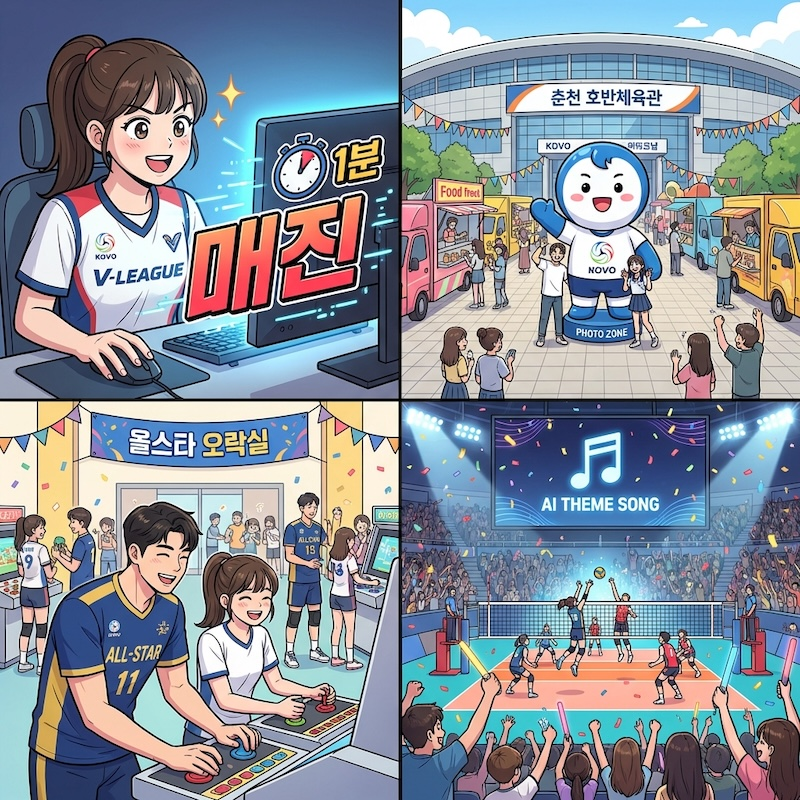
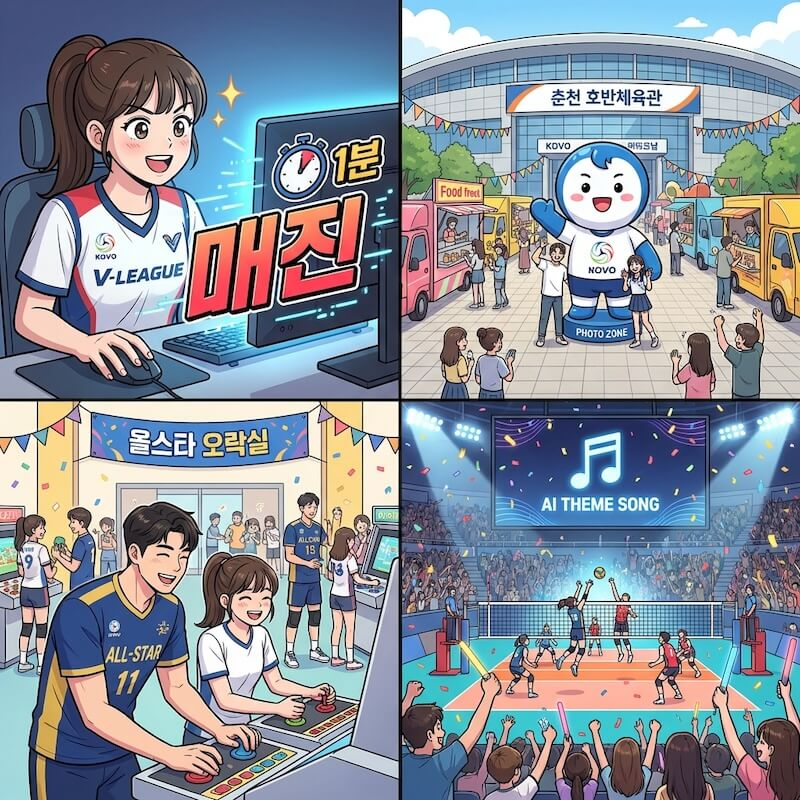
update

diff --git a/_posts/project/newsnack/2026-02-23-newsnack-airflow-pipeline.md b/_posts/project/newsnack/2026-02-23-newsnack-airflow-pipeline.md
@@ -8,18 +8,18 @@ mermaid: true
 
 ## 들어가며
 
-뉴스낵은 매시간 언론사 RSS를 수집하고, 매일 2회 기사들을 바탕으로 상위 이슈를 선별하고, 각 이슈들에 대한 AI 기사(뉴스툰)를 만든 후, 최종적으로 오늘의 뉴스낵까지 만드는 **긴 호흡의 데이터 생성 프로세스**를 거친다.
+뉴스낵은 매시간 언론사 RSS를 수집하고, 매일 2회 기사들을 바탕으로 상위 이슈를 선별하고, 각 이슈들에 대한 뉴스툰을 만든 후, 최종적으로 오늘의 뉴스낵까지 만드는 **긴 호흡의 데이터 생성 프로세스**를 거친다.
 
 ```mermaid
 flowchart LR
     A([기사 수집]) --> B([이슈 클러스터링])
     B --> C([상위 이슈 선별])
-    C --> D([AI 기사 생성 요청])
+    C --> D([뉴스툰 생성 요청])
     D --> E([오늘의 뉴스낵 생성 요청])
 ```
 
 초기에는 단순 Linux `Cron` 스크립트나 FastAPI의 백그라운드 태스크로 구동하려 했으나 여러 한계에 직면했다.
-수많은 배치 작업 중 **어떤 단계에서 에러가 터졌는지 추적**하기 어려웠고, 선행 작업(AI 기사 생성)이 완료되지도 않았는데 후행 작업(오늘의 뉴스낵 생성)이 실행되는 등 **태스크 간의 선후행 조건 제어**가 불가능했다. 또한 간헐적인 네트워크 오류에 대비한 **재시도 로직**을 일일이 하드코딩해야 하는 운영 리소스의 낭비가 심각했다.
+수많은 배치 작업 중 **어떤 단계에서 에러가 터졌는지 추적**하기 어려웠고, 선행 작업(뉴스툰 생성)이 완료되지도 않았는데 후행 작업(오늘의 뉴스낵 생성)이 실행되는 등 **태스크 간의 선후행 조건 제어**가 불가능했다. 또한 간헐적인 네트워크 오류에 대비한 **재시도 로직**을 일일이 하드코딩해야 하는 운영 리소스의 낭비가 심각했다.
 
 ![airflow_logo](/assets/img/project/newsnack/introduction/airflow_logo.png)
 
@@ -36,7 +36,7 @@ flowchart LR
 ![newsnack_system_architecture_airflow_fastapi](/assets/img/project/newsnack/airflow-pipeline/newsnack_system_architecture_airflow_fastapi.jpg)
 _시스템 아키텍처 중 일부 (Airflow와 FastAPI의 관계)_
 
-전체 로직을 FastAPI로 통합하는 방식도 고려했지만, 콘텐츠 조립 전 AI 기사가 모두 생성될 때까지 긴 시간을 안정적으로 대기하는 로직을 웹 서버에서 스레드를 점유하며 직접 구현하는 것은 비효율적이라고 판단했다. 따라서 실행의 흐름 관리는 Airflow가 담당하고, 세부적인 기사 선정과 데이터 조립은 AI 서버가 책임지는 분리된 구조를 선택했다.
+전체 로직을 FastAPI로 통합하는 방식도 고려했지만, 콘텐츠 조립 전 뉴스툰이 모두 생성될 때까지 긴 시간을 안정적으로 대기하는 로직을 웹 서버에서 스레드를 점유하며 직접 구현하는 것은 비효율적이라고 판단했다. 따라서 실행의 흐름 관리는 Airflow가 담당하고, 세부적인 기사 선정과 데이터 조립은 AI 서버가 책임지는 분리된 구조를 선택했다.
 
 ### 서비스 간 통신: gRPC vs REST
 
@@ -251,6 +251,13 @@ dag_id              | run_id                                   | state
 ====================+==========================================+=========
 news_collection_dag | manual__2026-02-08T09:53:39...           | success  ← 오직 1개만!
 ```
+
+## 전체 시퀀스 요약
+
+Airflow를 중앙 오케스트레이터로 활용하여, 데이터 수집(ETL)부터 AI 콘텐츠 생성까지 전체 시스템이 상호작용하는 흐름을 요약하면 다음과 같다.
+
+![orchestration_sequence_diagram](/assets/img/project/newsnack/airflow-pipeline/orchestration_sequence_diagram.webp)
+_Airflow 파이프라인 오케스트레이션 시퀀스_
 
 ## 마치며
 

diff --git a/_posts/project/newsnack/2026-02-18-newsnack-langgraph-workflow-1.md b/_posts/project/newsnack/2026-02-18-newsnack-langgraph-workflow-1.md
@@ -6,7 +6,7 @@ tags: [ai, langgraph, workflow]
 mermaid: true
 ---
 
-> 이 글은 뉴스낵 AI 엔진의 두 가지 주요 워크플로우 중 **AI 기사 작성 워크플로우**의 구축 과정을 설명합니다.
+> 이 글은 뉴스낵 AI 엔진의 두 가지 주요 워크플로우 중 **뉴스툰 작성 워크플로우**의 구축 과정을 설명합니다.
 
 ![newsnack_main_page](/assets/img/project/newsnack/newsnack-langgraph-workflow-1/newsnack_main_page.webp)
 _뉴스낵 첫 화면_
@@ -31,7 +31,7 @@ _뉴스낵 첫 화면_
 
 이러한 두 가지 상이하고 복잡한 요구사항을 하나의 프레임워크에서 관리하기 위해, AI 워크플로우를 효율적으로 제어할 수 있는 **LangGraph**를 메인 오케스트레이터로 도입했다. 모든 데이터는 하나의 `State` 객체를 통해 교환하도록 강제하여 로직이 엉키는 것을 방지했다.
 
-본 포스팅에서는 이 중 첫 번째 과제였던 **동적 분기 중심의 'AI 기사 워크플로우'**가 어떠한 시스템 흐름을 거쳐 동작하며, 각 단계에서 어떤 기술적 고민을 해결했는지 다룬다.
+본 포스팅에서는 이 중 첫 번째 과제였던 **동적 분기 중심의 '뉴스툰 워크플로우'**가 어떠한 시스템 흐름을 거쳐 동작하며, 각 단계에서 어떤 기술적 고민을 해결했는지 다룬다.
 
 ---
 
@@ -49,9 +49,9 @@ LangGraph는 LLM 컴포넌트들을 **유향 비순환 그래프(DAG, Directed A
 | **Node(노드)** | 특정 작업을 수행하는 파이썬 함수. 상태를 입력받아 처리 후 업데이트된 상태를 반환한다. |
 | **Edge(엣지)** | 노드 간 실행 순서를 정의. 특정 조건에 따라 다른 노드로 분기하는 **조건부 엣지(Conditional Edge)** 를 지원한다. |
 
-### AI 기사 작성 워크플로우 설계
+### 뉴스툰 작성 워크플로우 설계
 
-AI 기사 작성 워크플로우는 기사를 분석하여 에디터를 배정받고, 대본을 작성한 뒤 이미지 생성을 거치는 일련의 흐름이다. 가장 먼저 설계한 부분은 워크플로우를 관통하는 상태(`State`)와 노드 간의 **조건부 라우팅 설정**이었다. 전체 워크플로우는 다음과 같다.
+뉴스툰 작성 워크플로우는 기사를 분석하여 에디터를 배정받고, 대본을 작성한 뒤 이미지 생성을 거치는 일련의 흐름이다. 가장 먼저 설계한 부분은 워크플로우를 관통하는 상태(`State`)와 노드 간의 **조건부 라우팅 설정**이었다. 전체 워크플로우는 다음과 같다.
 
 ```mermaid
 stateDiagram-v2
@@ -210,7 +210,7 @@ async def generate_images(state: AiArticleState):
 
 ## 마치며
 
-결론적으로, 뉴스낵의 AI 기사 작성 워커플로우는 복잡한 다중 분기 로직을 노드 형태로 명확하게 제어할 수 있게 되었다. 나아가 각 단계에서 발생할 수 있는 환각 문제나 통신 실패를 상태(State)와 예외 처리를 통해 하나의 트랜잭션 단위로 묶어내며 시스템의 전체적인 안정성을 크게 높였다.
+결론적으로, 뉴스낵의 뉴스툰 작성 워커플로우는 복잡한 다중 분기 로직을 노드 형태로 명확하게 제어할 수 있게 되었다. 나아가 각 단계에서 발생할 수 있는 환각 문제나 통신 실패를 상태(State)와 예외 처리를 통해 하나의 트랜잭션 단위로 묶어내며 시스템의 전체적인 안정성을 크게 높였다.
 
 분기형 로직을 안정적으로 구성한 이후에는 앞선 기사들을 다시 모아 오디오 브리핑으로 통합해야 하는 과제가 남아있었다. 다음 포스팅에서는 해당 작업인 '오늘의 뉴스낵 생성 워크플로우'에 대한 설계와 오디오 타임라인 최적화 과정을 다룰 계획이다.
 

diff --git a/_posts/project/newsnack/2026-02-18-newsnack-langgraph-workflow-2.md b/_posts/project/newsnack/2026-02-18-newsnack-langgraph-workflow-2.md
@@ -12,7 +12,7 @@ mermaid: true
 
 ![today_newsnack_main_page](/assets/img/project/newsnack/newsnack-langgraph-workflow-2/today_newsnack_main_page.png)
 
-이전 포스팅에서 다루었던 AI 기사 작성 워크플로우가 동적인 분기 중심이었다면, 이번에 다룰 '오늘의 뉴스낵' 워크플로우는 **여러 기사를 하나로 통합**하는 흐름에 초점을 맞추고 있다.
+이전 포스팅에서 다루었던 뉴스툰 작성 워크플로우가 동적인 분기 중심이었다면, 이번에 다룰 '오늘의 뉴스낵' 워크플로우는 **여러 기사를 하나로 통합**하는 흐름에 초점을 맞추고 있다.
 
 오늘의 뉴스낵은 사용자가 선택한 여러 개의 뉴스 기사들을 모아 하나의 자연스러운 **오디오 브리핑**으로 생성해 제공하는 핵심 기능이다. 이 과정에서 여러 개의 텍스트를 어떻게 효율적으로 하나의 음성으로 엮어낼 것인지, 그리고 클라이언트에게 재생 구간(타임라인)을 어떻게 정확하게 제공할 것인지에 대한 설계 및 기술적 고민을 순차적으로 담았다.
 
@@ -44,7 +44,7 @@ stateDiagram-v2
 - **데이터 섞임 현상:** A 기사와 B 기사의 내용이 교차 오염됨.
 - **누락 현상:** 5개의 기사 중 일부 덜 중요한 기사를 임의로 생략함.
 
-이러한 포맷 파괴 현상을 통제하기 위해, 1편(AI 기사 워크플로우)에서 활용했던 Pydantic 기반의 구조적 출력(`with_structured_output`)을 다시 꺼내 들었다. 모델은 응답할 때 반드시 원본 기사의 고유 식별자(`article_id`)를 기준으로 매핑된 각 대본(`script`)을 리스트 형태로 반환하도록 규격화했다.
+이러한 포맷 파괴 현상을 통제하기 위해, 1편(뉴스툰 워크플로우)에서 활용했던 Pydantic 기반의 구조적 출력(`with_structured_output`)을 다시 꺼내 들었다. 모델은 응답할 때 반드시 원본 기사의 고유 식별자(`article_id`)를 기준으로 매핑된 각 대본(`script`)을 리스트 형태로 반환하도록 규격화했다.
 
 ```python
 # app/engine/schemas.py
@@ -148,7 +148,7 @@ _완성된 오늘의 뉴스낵_
 
 오늘의 뉴스낵 생성 파이프라인을 고도화하면서, 통일된 목소리로 맥락을 이어나가는 고품질의 브리핑을 위해 '단일 호출' 방식을 고수했다. 이로 인해 필연적으로 따라왔던 기사별 구간 정보 이탈 문제는 '순수 발화 글자 수 기반 역산 분배'라는 수학적 방법으로 해결했다. 
 
-분기 처리가 중심이었던 1편의 AI 기사 작성 워크플로우부터, 파편화된 데이터를 하나로 결합하는 이번 오늘의 뉴스낵 생성 워크플로우까지. 이 모든 과정을 통해 LangGraph의 상태 기반 시스템 모델링이 거대한 입출력 파이프라인의 데이터 흐름을 얼마나 직관적이고 견고하게 제어할 수 있는지를 체감했다.
+분기 처리가 중심이었던 1편의 뉴스툰 작성 워크플로우부터, 파편화된 데이터를 하나로 결합하는 이번 오늘의 뉴스낵 생성 워크플로우까지. 이 모든 과정을 통해 LangGraph의 상태 기반 시스템 모델링이 거대한 입출력 파이프라인의 데이터 흐름을 얼마나 직관적이고 견고하게 제어할 수 있는지를 체감했다.
 
 ## 참고 자료
 

diff --git a/_posts/project/newsnack/2026-02-17-newsnack-data-pipeline.md b/_posts/project/newsnack/2026-02-17-newsnack-data-pipeline.md
@@ -339,6 +339,13 @@ for cluster in clusters:
 
 ![issue_clustering_terminal](/assets/img/project/newsnack/data-pipeline/issue_clustering_terminal.png)
 
+## 전체 파이프라인 요약
+
+지금까지 살펴본 기사 수집부터 정제, 그리고 최종 이슈 군집화까지의 전체 ETL 파이프라인 흐름을 요약하면 다음과 같다.
+
+![newsnack_etl_processing_flow](/assets/img/project/newsnack/data-pipeline/newsnack_etl_processing_flow.webp)
+_ETL 파이프라인 데이터 처리 흐름_
+
 ## 마치며
 
-수집 파이프라인은 눈에 보이지는 않지만 전체 서비스 품질을 좌우한다. 타임아웃 방어와 서킷 브레이킹은 외부 시스템(언론사 서버)의 불안정성이 우리 파이프라인을 멈추지 못하도록 하고, 포토뉴스 필터는 AI가 허위 사실을 만들어낼 가능성을 원천 차단한다. 그 위에 TF-IDF 군집화로 중복을 제거함으로써 AI 서버는 정제된 이슈 데이터만을 받아 안정적이고 효율적으로 동작할 수 있는 구조가 완성된다.
+데이터 파이프라인은 눈에 보이지는 않지만 전체 서비스 품질을 좌우한다. 타임아웃 방어와 서킷 브레이킹은 외부 시스템(언론사 서버)의 불안정성이 우리 파이프라인을 멈추지 못하도록 하고, 포토뉴스 필터는 AI가 허위 사실을 만들어낼 가능성을 원천 차단한다. 그 위에 TF-IDF 군집화로 중복을 제거함으로써 AI 서버는 정제된 이슈 데이터만을 받아 안정적이고 효율적으로 동작할 수 있는 구조가 완성된다.

diff --git a/_posts/project/newsnack/2026-02-21-newsnack-multi-provider-factory.md b/_posts/project/newsnack/2026-02-21-newsnack-multi-provider-factory.md
@@ -149,6 +149,16 @@ OpenAI SDK가 반환한 Base64 데이터를 파이썬 표준 라이브러리인 
 |---|---|
 |![openai_image_result-2](/assets/img/project/newsnack/multi-provider-factory/openai_image_result-2.png)|![openai_image_result-3](/assets/img/project/newsnack/multi-provider-factory/openai_image_result-3.png)|
 
+## 전체 워크플로우 요약
+
+앞서 구현한 멀티 프로바이더 구조가 뉴스툰과 오늘의 뉴스낵 생성 로직에 각각 결합된 전체 워크플로우는 다음과 같다.
+
+![newstoon_workflow_1](/assets/img/project/newsnack/multi-provider-factory/newstoon_workflow_v1.webp)
+_'뉴스툰' 워크플로우_
+
+![today_newsnack_workflow](/assets/img/project/newsnack/multi-provider-factory/today_newsnack_workflow.webp)
+_'오늘의 뉴스낵' 워크플로우_
+
 ## 마치며
 
 구글 계정 정지라는 예측 불가능한 외부 장애가 팩토리 패턴 도입의 직접적인 계기였다. 단순히 OpenAI로 전면 전환하는 대신, 환경변수(`AI_PROVIDER`) 변경만으로 전환이 가능한 멀티 프로바이더 구조를 택한 결과 계정 정지 상황에서도 불과 7시간 만에 파이프라인을 재가동할 수 있었다.

diff --git a/_posts/project/newsnack/2026-02-19-newsnack-image-parallel-generation.md b/_posts/project/newsnack/2026-02-19-newsnack-image-parallel-generation.md
@@ -94,7 +94,7 @@ async def image_gen_node(state: AiArticleState):
 
 병렬 처리를 적용하면서 마주친 또 다른 문제는 구글 측의 **Rate Limit**과 일시적인 서버 과부하(`503 UNAVAILABLE`)였다.
 
-여러 기사에 대한 AI 기사 생성 요청이 동시에 들어오면, 각각의 생성 태스크가 `asyncio.gather`를 통해 3장의 이미지를 한 번에 병렬로 요청하므로 순간적으로 구글 API 서버에 과도한 트래픽이 집중되었다.
+여러 기사에 대한 뉴스툰 생성 요청이 동시에 들어오면, 각각의 생성 태스크가 `asyncio.gather`를 통해 3장의 이미지를 한 번에 병렬로 요청하므로 순간적으로 구글 API 서버에 과도한 트래픽이 집중되었다.
 
 ```text
 ERROR: 11:56:42 - app.engine.tasks.image - Error generating image 0: 503 UNAVAILABLE. {'error': {'code': 503, 'message': 'This model is currently experiencing high demand. Spikes in demand are usually temporary. Please try again later.', 'status': 'UNAVAILABLE'}}

diff --git a/_posts/project/newsnack/2026-02-28-newsnack-race-condition-pessimistic-lock.md b/_posts/project/newsnack/2026-02-28-newsnack-race-condition-pessimistic-lock.md
@@ -25,7 +25,7 @@ _DB에 저장된 중복 기사들_
 
 ## 원인: 동시성 제어의 부재
 
-파이프라인 설계 당시의 핵심 목표는 멱등성이었다. 한 이슈에 대해 여러 번 생성 요청이 들어와도 AI 기사는 단 1개만 만들어져야 했다.
+파이프라인 설계 당시의 핵심 목표는 멱등성이었다. 한 이슈에 대해 여러 번 생성 요청이 들어와도 뉴스툰은 단 1개만 만들어져야 했다.
 이를 위해 `issue` 테이블에 명시적 상태 관리를 위한 `processing_status` 컬럼을 추가하고, 상위 K개의 이슈들을 골라내어 뉴스낵 조립의 핵심 단일 진실 공급원으로 삼았다.
 
 하지만 AI 서버에서 선별적 처리를 위해 중복을 검사하고 상태를 갱신하는 기존 로직은 단순했다.

diff --git a/_posts/project/newsnack/2026-03-03-newsnack-image-research-agent.md b/_posts/project/newsnack/2026-03-03-newsnack-image-research-agent.md
@@ -301,6 +301,13 @@ if not response.parts:  # None과 빈 리스트 형태 동시 검출
 | :---: | :---: |
 | 2컷 | 3컷 |
 
+## 전체 워크플로우 요약
+
+지금까지 구축한 독립적인 리서치 에이전트 노드가 기존 파이프라인에 결합된 뉴스툰 전체 워크플로우는 다음과 같다.
+
+![newstoon_workflow_2](/assets/img/project/newsnack/image-research-agent/newstoon_workflow_v2.webp)
+_완성된 '뉴스툰' 워크플로우_
+
 ## 마치며
 
 에이전트가 기사의 내용을 바탕으로 스스로 판단해서 도구를 호출하고, 문제 발생 시 스스로 우회로를 찾으며, 이후 노드에서 멀티모달 모델로 최종 검증을 수행하는 복합 워크플로를 안정적으로 구축했다.
